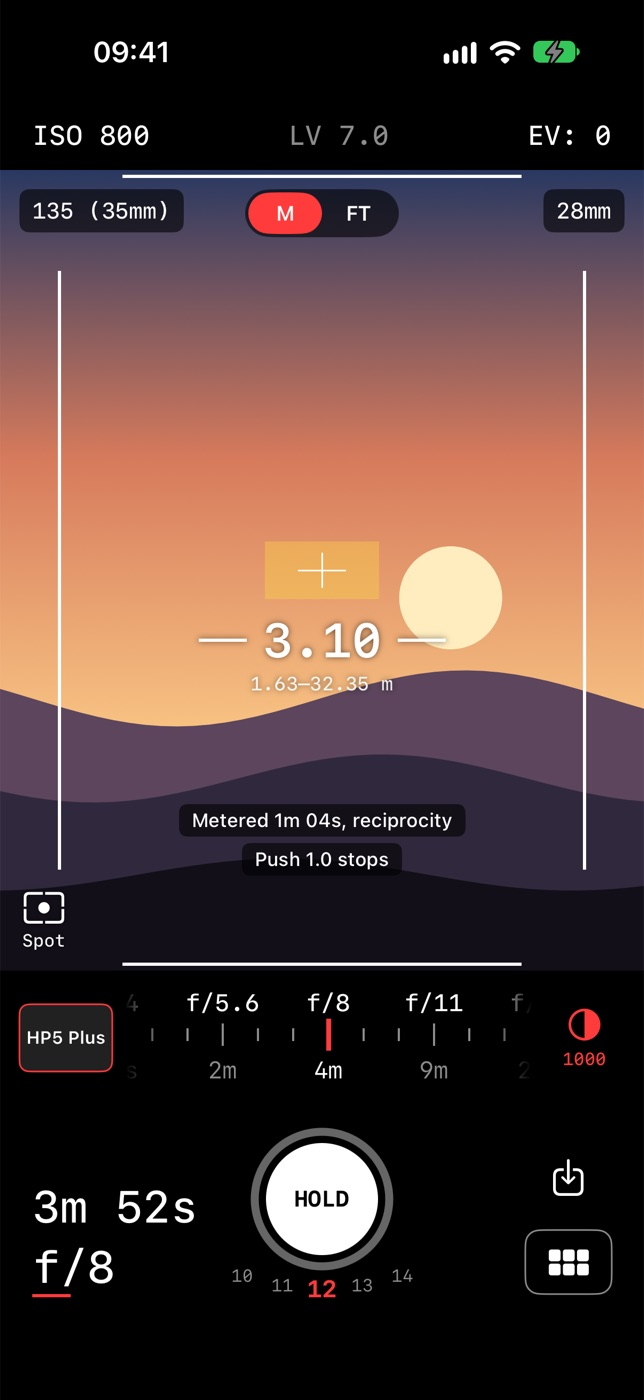
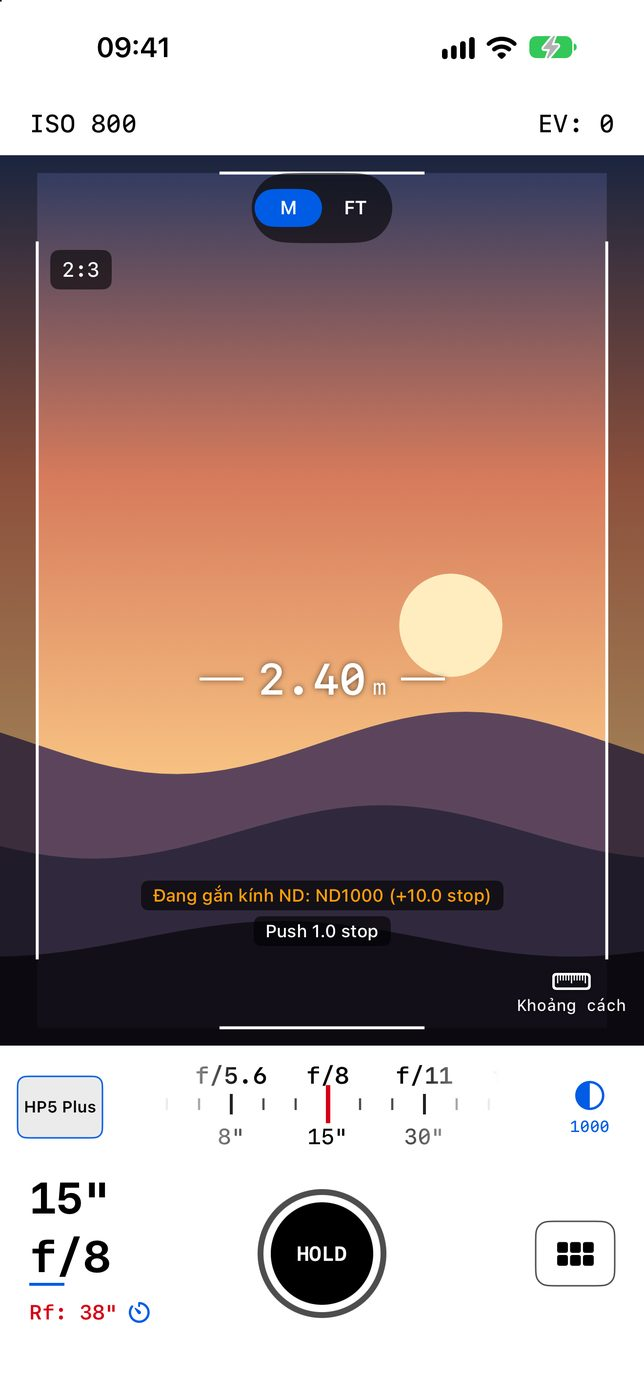
Clean up the meter, refresh the website and prepare the App Store release
App:
- Draw ruler labels with UIKit, so they no longer go missing at times.
- Show the focal length only on the ruler's marks: no frame tag, plain tab.
- Warn on screen while an ND filter is set.
- Remove the drawer handle bar; show the distance unit next to the number.

Release:
- README for the project.
- docs/APP-STORE.md: submission steps and store text in English and
  Vietnamese.
- scripts/appstore-screenshots.sh: 6.9" screenshots in both languages.
- Website: new screenshots and text for the viewfinder and focal zoom; drop
  depth of field, CSV export and manual distance.

diff --git a/index.html b/index.html
@@ -22,11 +22,11 @@
     <h1><span data-l="vi">Đo sáng cho máy film, ngay trên iPhone</span><span data-l="en">A film light meter in your iPhone</span></h1>
     <p class="lede" data-l="vi">Chạm vào chỗ bạn quan tâm. App cho biết tốc độ, khẩu độ và khoảng cách tại đúng điểm đó, rồi ghi vào cuộn phim đang chụp.</p>
     <p class="lede" data-l="en">Tap the part of the scene you care about. The app gives you shutter speed, aperture and distance at that exact spot, then logs it to the roll you're shooting.</p>
-    <div class="reading" aria-hidden="true"><span>1/250</span><span>f/8</span><span>ISO 800</span><b>2.40 m</b></div>
+    <div class="reading" aria-hidden="true"><span>1/500</span><span>f/8</span><span>ISO 800</span><b>2.40 m</b></div>
     <a class="cta" data-cta href="#"><span data-l="vi">Tham gia TestFlight</span><span data-l="en">Join on TestFlight</span></a>
   </div>
   <figure class="phone">
-    <img src="assets/meter.jpg" width="644" height="1400" alt="Màn hình đo sáng: ô vàng ở giữa khung ngắm, khoảng cách 2.40 m, thước khẩu độ, tốc độ 1/250 f/8 và nút HOLD">
+    <img src="assets/meter.jpg" width="644" height="1400" alt="Màn hình đo sáng: khung ngắm 2:3, khoảng cách 2.40 m, thước khẩu độ, tốc độ 1/500 f/8 và nút HOLD">
     <figcaption><span data-l="vi">Ảnh chụp từ simulator với cảnh minh họa. Trên iPhone, khung ngắm là hình từ camera.</span><span data-l="en">Simulator capture with an illustrated scene. On an iPhone, the viewfinder shows the camera.</span></figcaption>
   </figure>
 </div>
@@ -81,16 +81,16 @@
 <section>
   <div class="wrap feature">
     <div class="feature-copy">
-      <h2><span data-l="vi">Một ô vàng, hai số đo</span><span data-l="en">One patch, two readings</span></h2>
-      <p data-l="vi">Ô vàng vừa là vùng đo sáng vừa là nơi lấy khoảng cách. Số khoảng cách đi thẳng vào độ sâu trường ảnh, nên bạn thấy luôn dải nét theo khẩu độ và tiêu cự đang chọn.</p>
-      <p data-l="en">The yellow patch is both the metering area and where distance is read. That distance feeds depth of field directly, so the sharp range follows your aperture and focal length.</p>
+      <h2><span data-l="vi">Nhìn như qua ống kính của bạn</span><span data-l="en">See what your lens sees</span></h2>
+      <p data-l="vi">Khung ngắm đứng yên theo khổ phim. Chọn tiêu cự trên thước, hình bên trong phóng to hoặc thu nhỏ đúng góc nhìn của ống kính đó. Chạm vào chỗ cần đo: app đo điểm đó trong 3 giây rồi tự về đo toàn khung.</p>
+      <p data-l="en">The frame lines stay put, shaped like your film format. Pick a focal length on the ruler and the picture inside zooms to that lens's view. Tap what matters: the app meters that spot for 3 seconds, then goes back to the whole frame.</p>
       <ul class="facts">
-        <li><b>LiDAR</b><span><span data-l="vi">Trên iPhone Pro, trong khoảng 5 m.</span><span data-l="en">On iPhone Pro models, within about 5 m.</span></span></li>
+        <li><b>28–135mm</b><span><span data-l="vi">28, 35, 50, 85 và 135mm, tính theo khổ phim đang chọn.</span><span data-l="en">28, 35, 50, 85 and 135mm, worked out for the format you shoot.</span></span></li>
+        <li><b>LiDAR</b><span><span data-l="vi">Trên iPhone Pro, khoảng cách tới điểm đo, trong khoảng 5 m.</span><span data-l="en">On iPhone Pro models, distance to the metered spot, within about 5 m.</span></span></li>
         <li><b>≈</b><span><span data-l="vi">Máy hai camera ước lượng khoảng cách, app đánh dấu là xấp xỉ.</span><span data-l="en">Dual-camera iPhones estimate distance, marked as approximate.</span></span></li>
-        <li><b>MANUAL</b><span><span data-l="vi">Máy một camera nhập khoảng cách bằng tay.</span><span data-l="en">Single-camera iPhones take distance by hand.</span></span></li>
       </ul>
     </div>
-    <figure class="phone"><img src="assets/dof.jpg" width="644" height="1400" loading="lazy" alt="Màn hình độ sâu trường ảnh: khoảng cách đo được, giới hạn gần, xa và siêu tiêu cự"></figure>
+    <figure class="phone"><img src="assets/viewfinder.jpg" width="644" height="1400" loading="lazy" alt="Khung ngắm 2:3 với thước tiêu cự 35, 50, 85 và 135mm đang chọn 85mm"></figure>
   </div>
 </section>
 
@@ -98,15 +98,15 @@
   <div class="wrap feature flip">
     <div class="feature-copy">
       <h2><span data-l="vi">Cuộn phim nằm trong app</span><span data-l="en">Your roll lives in the app</span></h2>
-      <p data-l="vi">Nạp một cuộn và app đặt sẵn ISO, khổ phim và dữ liệu reciprocity. Mỗi lần lưu, số đo được ghi vào đúng khung, còn bộ đếm dưới nút HOLD tăng lên.</p>
-      <p data-l="en">Load a roll and the app sets the speed, format and reciprocity data. Each save goes to the right frame, and the counter under HOLD moves on.</p>
+      <p data-l="vi">Nạp một cuộn và app đặt sẵn ISO, khổ phim và dữ liệu reciprocity. Mỗi lần lưu, số đo được ghi vào cuộn đó để bạn xem lại sau.</p>
+      <p data-l="en">Load a roll and the app sets the speed, format and reciprocity data. Each save is kept with that roll, to look back on later.</p>
       <ul class="facts">
         <li><b>EI</b><span><span data-l="vi">Push và pull, app báo số stop so với ISO gốc.</span><span data-l="en">Push and pull, shown in stops from box speed.</span></span></li>
         <li><b>135 / 120</b><span><span data-l="vi">Half frame, 35mm, 645, 6x6, 6x7, 6x9.</span><span data-l="en">Half frame, 35mm, 645, 6x6, 6x7, 6x9.</span></span></li>
-        <li><b>CSV</b><span><span data-l="vi">Xuất nhật ký kèm cuộn, khung và khoảng cách.</span><span data-l="en">Export the log with roll, frame and distance.</span></span></li>
+        <li><b>+</b><span><span data-l="vi">Thêm phim của riêng bạn, kèm hệ số reciprocity trong datasheet.</span><span data-l="en">Add your own films, with the reciprocity exponent from the datasheet.</span></span></li>
       </ul>
     </div>
-    <figure class="phone"><img src="assets/rolls.jpg" width="644" height="1400" loading="lazy" alt="Màn hình Film: nút Add roll, cuộn HP5 Plus đang nạp với 11 trên 36 kiểu"></figure>
+    <figure class="phone"><img src="assets/rolls.jpg" width="644" height="1400" loading="lazy" alt="Màn hình Chọn cuộn: cuộn Ilford HP5 Plus đang dùng, ISO 800, push 1 stop, và nút Thêm cuộn"></figure>
   </div>
 </section>
 
@@ -117,11 +117,11 @@
       <p data-l="vi">Chọn kính ND và loại phim, app tính thời gian đã bù reciprocity. Giữ nút HOLD để mở đồng hồ đếm ngược.</p>
       <p data-l="en">Pick an ND filter and a film. The app works out the reciprocity-corrected time. Press and hold HOLD to start the countdown.</p>
       <ul class="facts">
-        <li><b>ND2–ND10000</b><span><span data-l="vi">Tự bù số stop của kính.</span><span data-l="en">Filter stops are applied for you.</span></span></li>
-        <li><b>t^p</b><span><span data-l="vi">17 loại phim, và bạn có thể tự thêm phim khác. Portra, Ektar và Gold là số ước lượng, app ghi rõ.</span><span data-l="en">17 film stocks, and you can add your own. Portra, Ektar and Gold are estimates, and the app says so.</span></span></li>
+        <li><b>ND2–ND10000</b><span><span data-l="vi">Tự bù số stop của kính, và nhắc trên màn hình khi kính ND đang bật để bạn không quên.</span><span data-l="en">Filter stops are applied for you, with an on-screen reminder while an ND filter is set so it isn't forgotten.</span></span></li>
+        <li><b>t^p</b><span><span data-l="vi">30 loại phim, và bạn có thể tự thêm phim khác. Số liệu ước lượng được ghi rõ là ước lượng.</span><span data-l="en">30 film stocks, and you can add your own. Estimated data is labelled as an estimate.</span></span></li>
       </ul>
     </div>
-    <figure class="phone"><img src="assets/longexp.jpg" width="644" height="1400" loading="lazy" alt="Phơi dài với ND1000 trên HP5 Plus: app báo thời gian đã bù reciprocity"></figure>
+    <figure class="phone"><img src="assets/longexp.jpg" width="644" height="1400" loading="lazy" alt="Phơi dài với ND1000 trên HP5 Plus: cảnh báo kính ND, thời gian 15 giây và Rf 38 giây sau khi bù reciprocity"></figure>
   </div>
 </section>
 
@@ -130,7 +130,7 @@
     <h2><span data-l="vi">Thông số</span><span data-l="en">Specs</span></h2>
     <ul class="facts">
       <li><b>iPhone</b><span><span data-l="vi">iOS 17 trở lên</span><span data-l="en">iOS 17 or later</span></span></li>
-      <li><b>Metering</b><span><span data-l="vi">Spot chạm chọn điểm, hoặc Average toàn khung. Đo phản xạ.</span><span data-l="en">Tap-to-place spot, or whole-frame average. Reflected light.</span></span></li>
+      <li><b>Metering</b><span><span data-l="vi">Đo toàn khung, chạm để đo điểm trong 3 giây. Đo phản xạ.</span><span data-l="en">Whole frame, or tap for a 3-second spot reading. Reflected light.</span></span></li>
       <li><b>Av / Tv / M</b><span><span data-l="vi">Ưu tiên khẩu, ưu tiên tốc, hoặc thủ công với kim báo thừa thiếu sáng.</span><span data-l="en">Aperture priority, shutter priority, or manual with an over/under scale.</span></span></li>
       <li><b>1/3 · 1/2 · 1</b><span><span data-l="vi">Bước chỉnh theo vòng số của máy bạn.</span><span data-l="en">Steps that match your camera's clicks.</span></span></li>
       <li><b>Offline</b><span><span data-l="vi">Không cần tài khoản hay mạng. Dữ liệu nằm trên máy bạn.</span><span data-l="en">No account or connection needed. Your data stays on your phone.</span></span></li>

diff --git a/privacy.html b/privacy.html
@@ -18,7 +18,7 @@
 </header>
 <main class="wrap doc">
   <h1><span data-l="vi">Quyền riêng tư</span><span data-l="en">Privacy</span></h1>
-  <p class="updated"><span data-l="vi">Cập nhật ngày 5/11/2026</span><span data-l="en">Updated 5 November 2026</span></p>
+  <p class="updated"><span data-l="vi">Cập nhật ngày 19/11/2026</span><span data-l="en">Updated 19 November 2026</span></p>
 
   <section data-l="vi">
     <h2>Tóm tắt</h2>
@@ -40,11 +40,11 @@
 
   <section data-l="vi">
     <h2>Dữ liệu bạn lưu</h2>
-    <p>Cuộn phim, nhật ký phơi sáng và cài đặt chỉ nằm trên iPhone của bạn. Xóa app sẽ xóa các dữ liệu này. File CSV chỉ được gửi đi khi bạn tự chia sẻ.</p>
+    <p>Cuộn phim, số đo đã lưu và cài đặt chỉ nằm trên iPhone của bạn. Xóa app sẽ xóa các dữ liệu này.</p>
   </section>
   <section data-l="en">
     <h2>What you save</h2>
-    <p>Rolls, exposure logs and settings stay on your iPhone, and deleting the app deletes them. A CSV file only goes somewhere when you share it yourself.</p>
+    <p>Rolls, saved readings and settings stay on your iPhone, and deleting the app deletes them.</p>
   </section>
 
   <section data-l="vi">

diff --git a/support.html b/support.html
@@ -43,11 +43,11 @@
 
   <section data-l="vi">
     <h2>Khoảng cách hiện dấu "—"</h2>
-    <p>Cảm biến không đọc được vật trong ô vàng. LiDAR chỉ tới khoảng 5 m. Hãy đặt ô vàng lên vật gần hơn.</p>
+    <p>Cảm biến không đọc được vật tại điểm đo. LiDAR chỉ tới khoảng 5 m. Hãy chạm vào vật gần hơn. Trên iPhone không đo được khoảng cách, ô khoảng cách được ẩn đi.</p>
   </section>
   <section data-l="en">
     <h2>Distance shows a dash</h2>
-    <p>The sensor can't read what's in the yellow patch. LiDAR reaches about 5 m, so try something closer.</p>
+    <p>The sensor can't read what's at the metered spot. LiDAR reaches about 5 m, so tap something closer. On iPhones that can't measure distance, the distance readout is hidden.</p>
   </section>
 
   <section data-l="vi">
